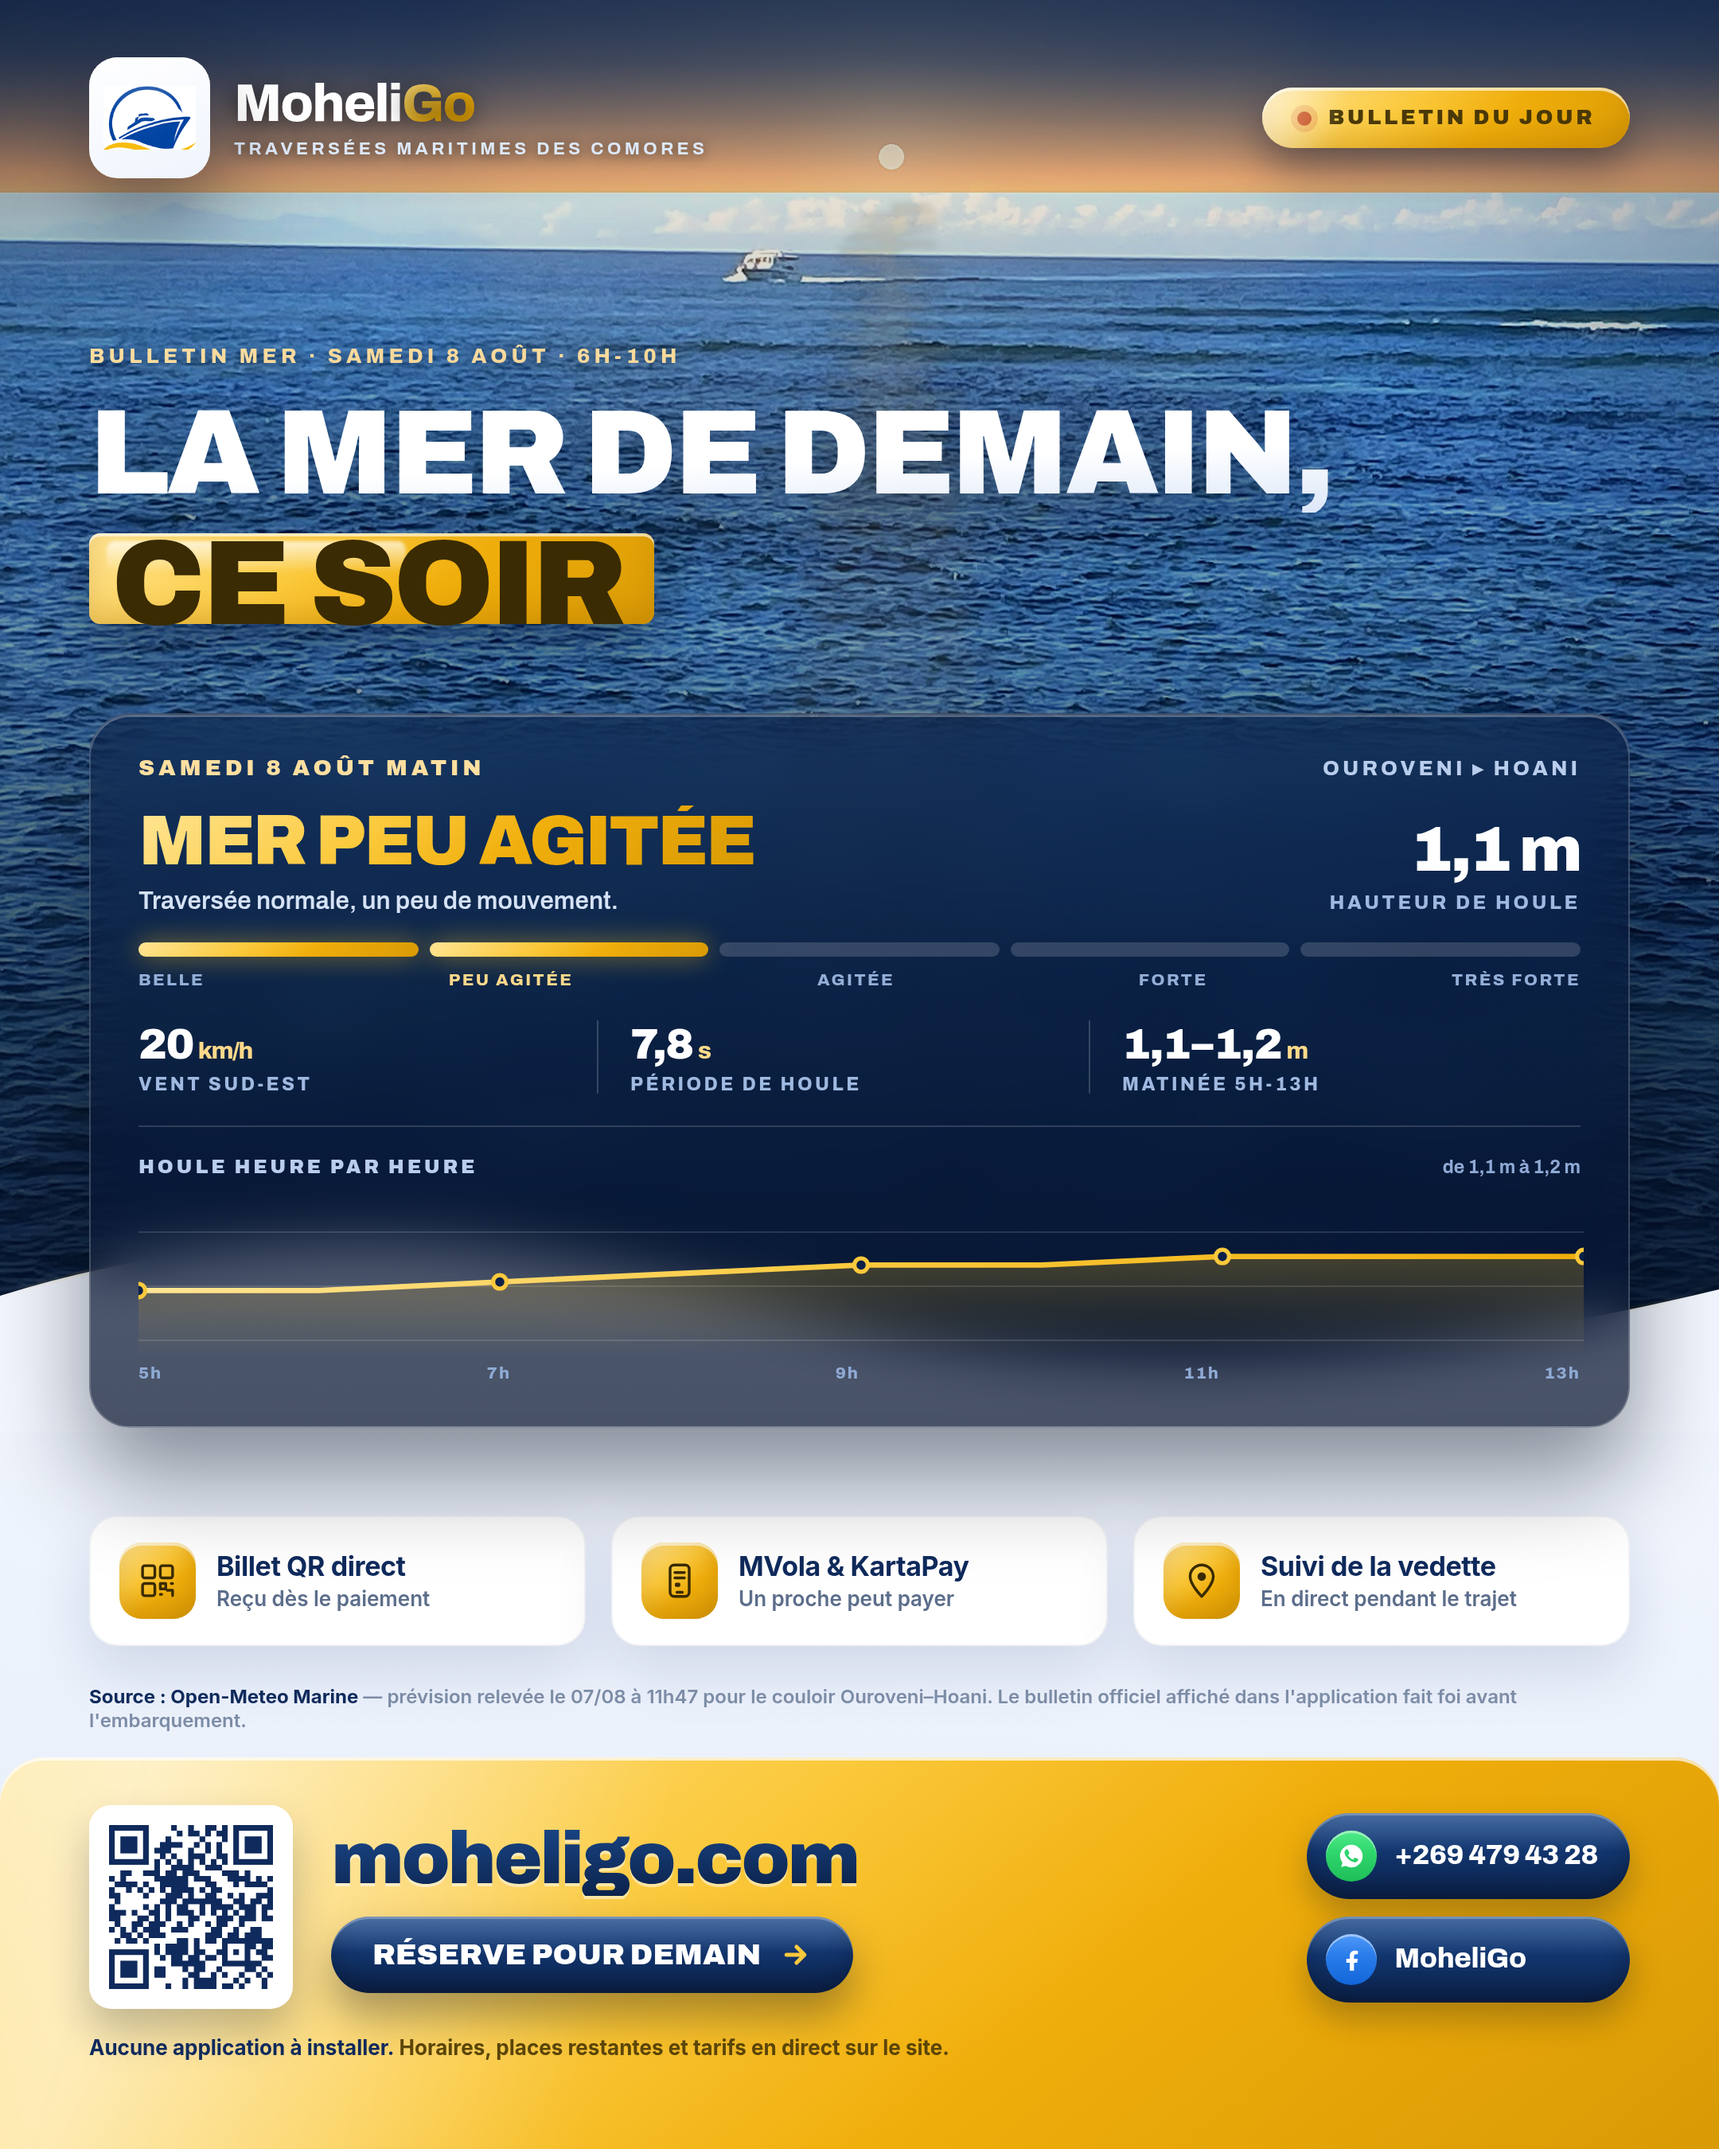
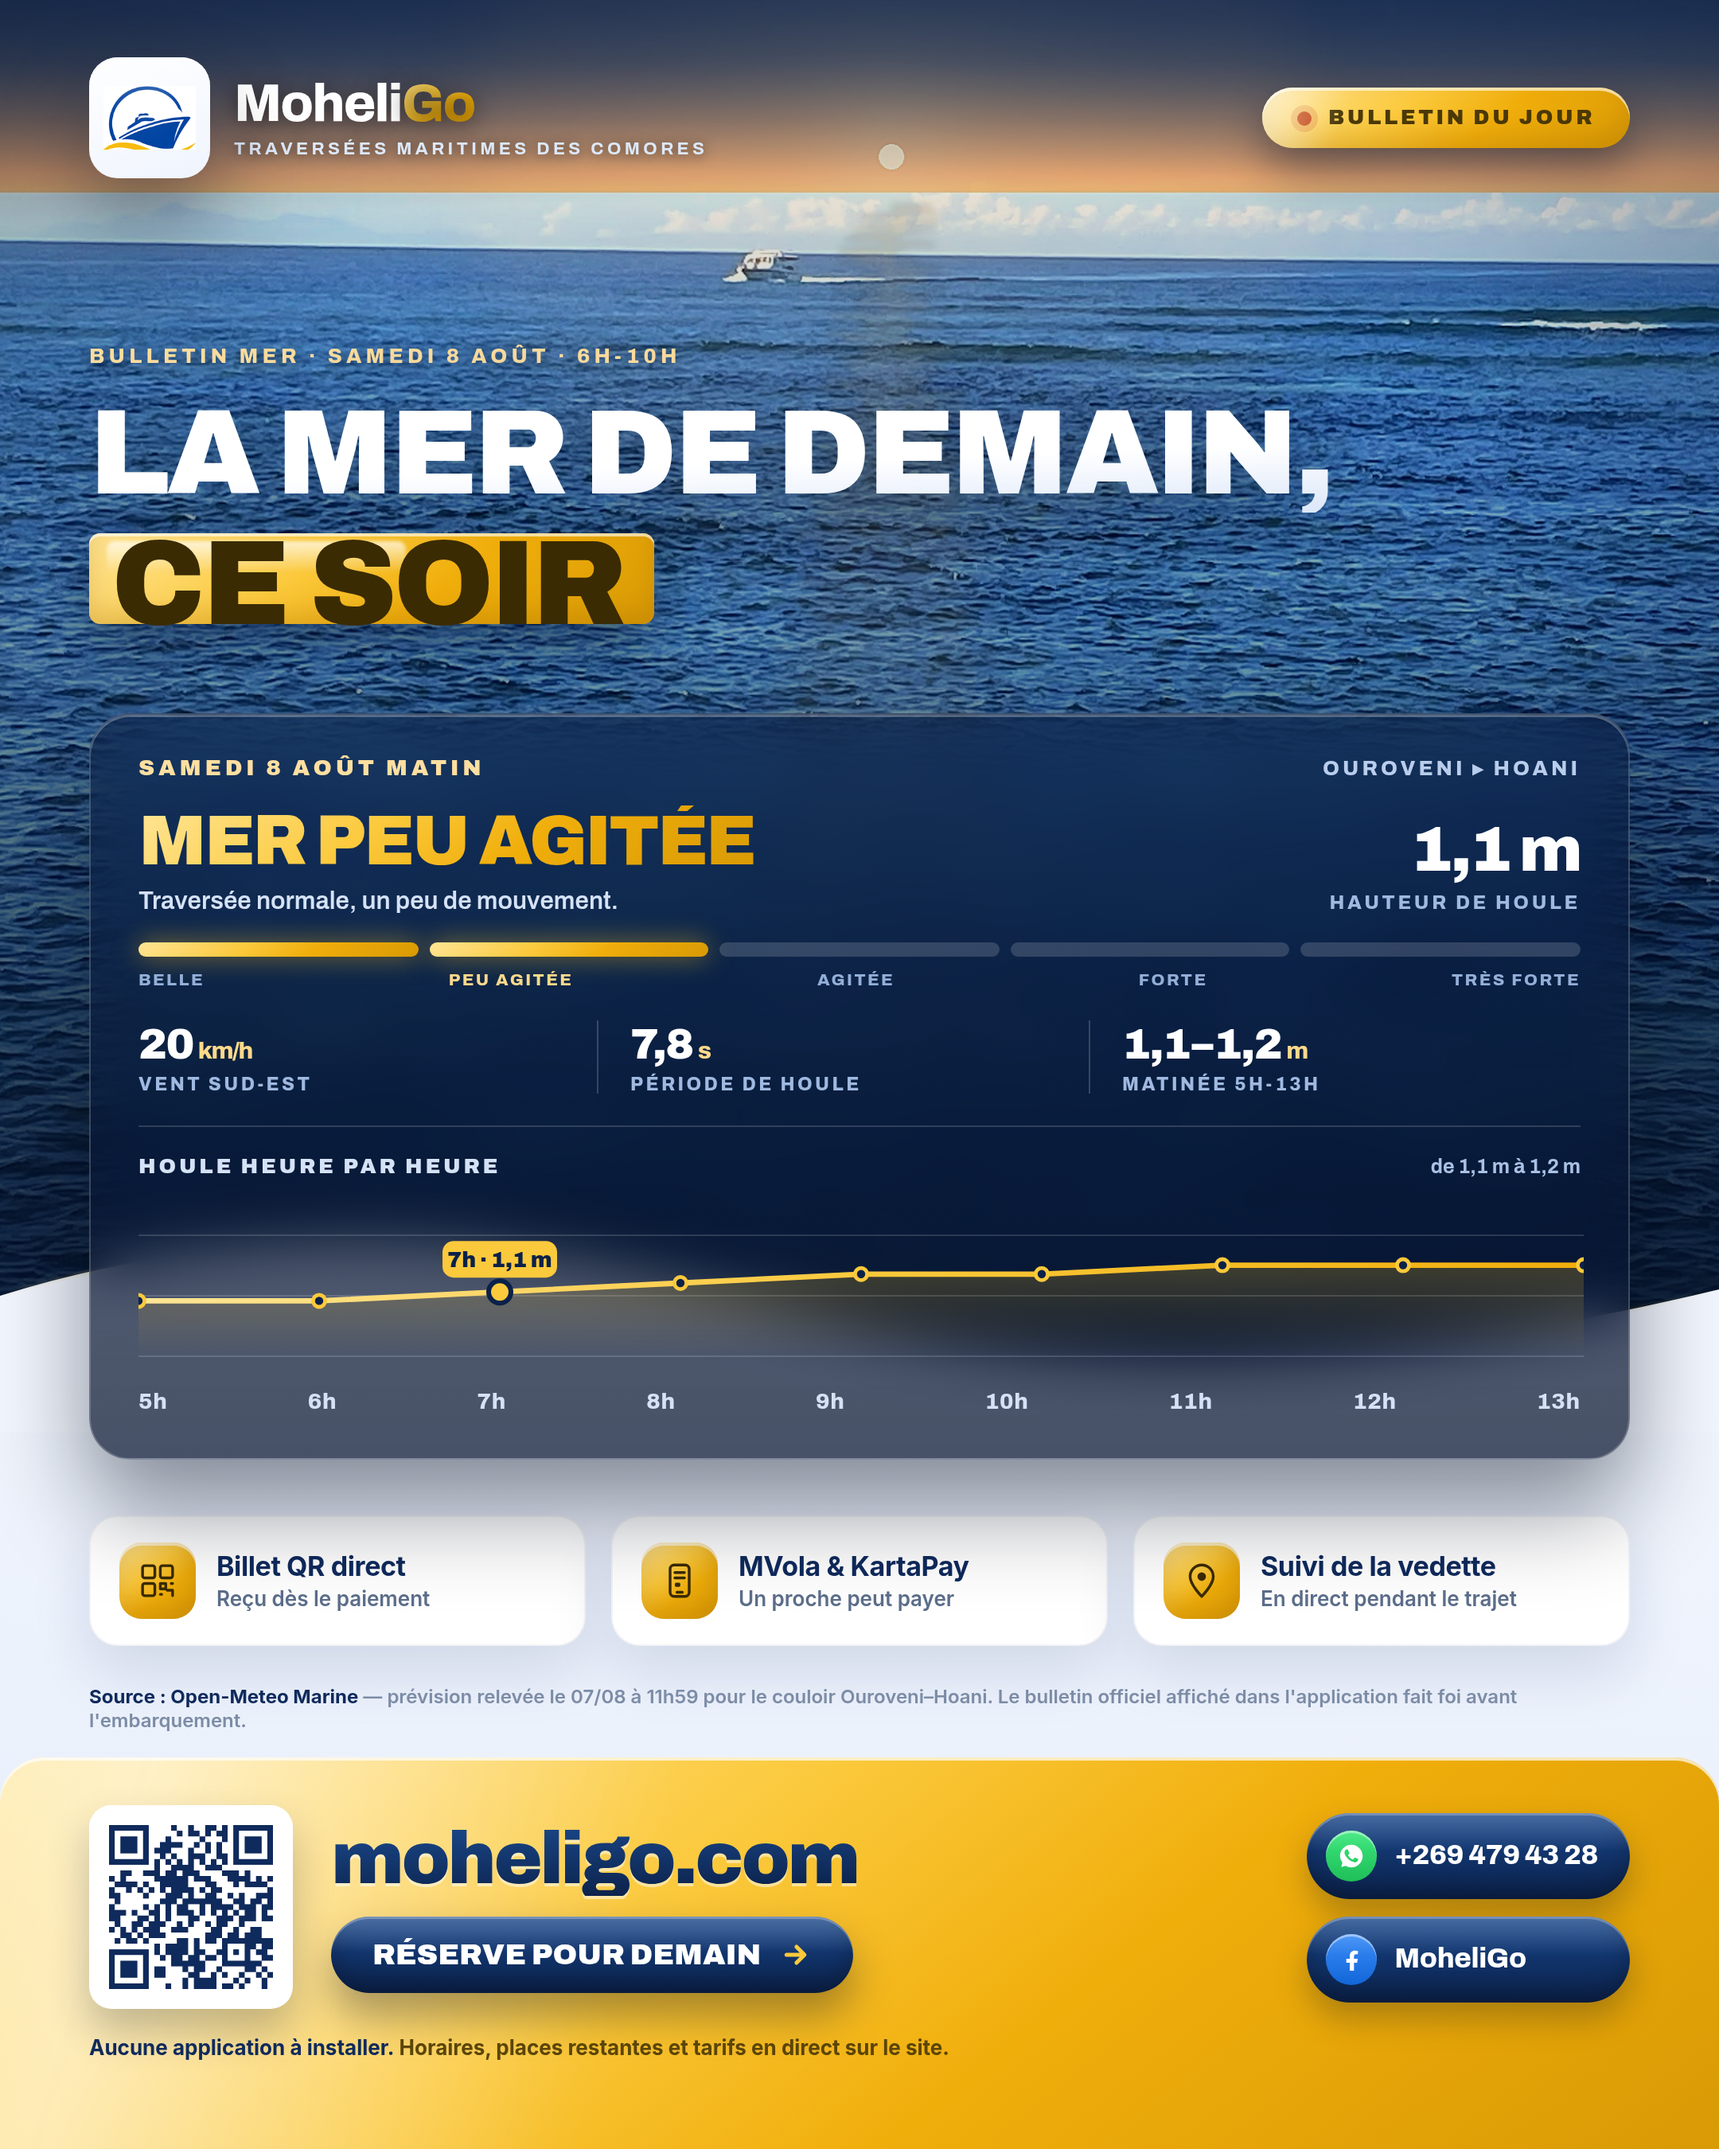
Bulletin du soir : heures lisibles et repere de l'heure de depart
Retour du patron : « on voit pas bien les heures ».

- legende des heures : 14 px au lieu de 10,5, couleur eclaircie, et les neuf
  heures affichees (5h a 13h) au lieu d'une sur deux
- un point par heure sur la courbe, et un repere plus gros a 7h avec sa valeur
  dans une pastille or (« 7h · 1,1 m ») : on lit la houle de l'heure de depart
  la plus courante sans calculer
- boite du graphique agrandie de 104 a 116 px, lignes de reperes plus visibles
- correction : le passage en virgule decimale ne s'applique qu'a la valeur
  affichee, plus au fragment SVG entier (il cassait les coordonnees)
- README : rappel que le PNG publie ne change jamais seul, seule sa fabrication
  est automatisee

Claude-Session: https://claude.ai/code/session_01BYJ87ihntXtVLQBUE1Jkoy

Changed region(s): [[0.031, 0.5289, 0.9616, 0.7156]]

diff --git a/moheligo/pub/flyers/flyer8-soir-fb.html b/moheligo/pub/flyers/flyer8-soir-fb.html
@@ -113,11 +113,11 @@ body { width:1080px; height:1350px; font-family:'Inter',Arial,sans-serif; color:
 /* courbe de houle */
 .chart { margin-top:20px; padding-top:18px; border-top:1px solid rgba(255,255,255,.16); }
 .chart .ct { display:flex; align-items:baseline; justify-content:space-between; }
-.chart .ct b { font-size:12px; font-weight:900; letter-spacing:1.9px; color:#B9CDEC; }
-.chart .ct span { font-size:11.5px; font-weight:700; color:#8FAAD4; }
+.chart .ct b { font-size:13px; font-weight:900; letter-spacing:1.9px; color:#D5E2F6; }
+.chart .ct span { font-size:12.5px; font-weight:700; color:#A9C1E4; }
 .chart svg { display:block; margin-top:8px; }
-.hours { margin-top:5px; display:flex; justify-content:space-between;
-  font-size:10.5px; font-weight:800; letter-spacing:1px; color:#8FAAD4; }
+.hours { margin-top:9px; display:flex; justify-content:space-between;
+  font-size:14px; font-weight:800; letter-spacing:.4px; color:#D5E2F6; }
 
 /* ---------- ligne d'action ---------- */
 .mid { position:absolute; left:var(--pad); right:var(--pad); top:952px; z-index:4; display:flex; gap:16px; }
@@ -220,7 +220,7 @@ body { width:1080px; height:1350px; font-family:'Inter',Arial,sans-serif; color:
 
     <div class="chart">
       <div class="ct arch"><b>HOULE HEURE PAR HEURE</b><span>de 1,1 m à 1,2 m</span></div>
-      <svg width="908" height="104" viewBox="0 0 908 104" fill="none">
+      <svg width="908" height="116" viewBox="0 0 908 116" fill="none">
         <defs>
           <linearGradient id="aire" x1="0" y1="0" x2="0" y2="104" gradientUnits="userSpaceOnUse">
             <stop offset="0" stop-color="#F6BC1C" stop-opacity=".42"/>
@@ -231,13 +231,13 @@ body { width:1080px; height:1350px; font-family:'Inter',Arial,sans-serif; color:
             <stop offset="1" stop-color="#F0AE0B"/>
           </linearGradient>
         </defs>
-        <path d="M0 26 H908 M0 60 H908 M0 94 H908" stroke="#FFFFFF" stroke-opacity=".13" stroke-width="1"/>
-        <path d="M0.0 62.7 L113.5 62.7 L227.0 57.3 L340.5 52.0 L454.0 46.7 L567.5 46.7 L681.0 41.3 L794.5 41.3 L908.0 41.3 L908.0 104 L0.0 104 Z" fill="url(#aire)"/>
-        <path d="M0.0 62.7 L113.5 62.7 L227.0 57.3 L340.5 52.0 L454.0 46.7 L567.5 46.7 L681.0 41.3 L794.5 41.3 L908.0 41.3" fill="none" stroke="url(#trait)" stroke-width="3.4"
+        <path d="M0 28 H908 M0 66 H908 M0 104 H908" stroke="#FFFFFF" stroke-opacity=".15" stroke-width="1"/>
+        <path d="M0.0 69.2 L113.5 69.2 L227.0 63.6 L340.5 58.0 L454.0 52.4 L567.5 52.4 L681.0 46.8 L794.5 46.8 L908.0 46.8 L908.0 116 L0.0 116 Z" fill="url(#aire)"/>
+        <path d="M0.0 69.2 L113.5 69.2 L227.0 63.6 L340.5 58.0 L454.0 52.4 L567.5 52.4 L681.0 46.8 L794.5 46.8 L908.0 46.8" fill="none" stroke="url(#trait)" stroke-width="3.4"
               stroke-linecap="round" stroke-linejoin="round"/>
-        <circle cx="0.0" cy="62.7" r="4.2" fill="#0B2149" stroke="#FBC93C" stroke-width="2.6"/><circle cx="227.0" cy="57.3" r="4.2" fill="#0B2149" stroke="#FBC93C" stroke-width="2.6"/><circle cx="454.0" cy="46.7" r="4.2" fill="#0B2149" stroke="#FBC93C" stroke-width="2.6"/><circle cx="681.0" cy="41.3" r="4.2" fill="#0B2149" stroke="#FBC93C" stroke-width="2.6"/><circle cx="908.0" cy="41.3" r="4.2" fill="#0B2149" stroke="#FBC93C" stroke-width="2.6"/>
+        <circle cx="0.0" cy="69.2" r="3.8" fill="#0B2149" stroke="#FBC93C" stroke-width="2.4"/><circle cx="113.5" cy="69.2" r="3.8" fill="#0B2149" stroke="#FBC93C" stroke-width="2.4"/><circle cx="227.0" cy="63.6" r="3.8" fill="#0B2149" stroke="#FBC93C" stroke-width="2.4"/><circle cx="340.5" cy="58.0" r="3.8" fill="#0B2149" stroke="#FBC93C" stroke-width="2.4"/><circle cx="454.0" cy="52.4" r="3.8" fill="#0B2149" stroke="#FBC93C" stroke-width="2.4"/><circle cx="567.5" cy="52.4" r="3.8" fill="#0B2149" stroke="#FBC93C" stroke-width="2.4"/><circle cx="681.0" cy="46.8" r="3.8" fill="#0B2149" stroke="#FBC93C" stroke-width="2.4"/><circle cx="794.5" cy="46.8" r="3.8" fill="#0B2149" stroke="#FBC93C" stroke-width="2.4"/><circle cx="908.0" cy="46.8" r="3.8" fill="#0B2149" stroke="#FBC93C" stroke-width="2.4"/><circle cx="227.0" cy="63.6" r="7" fill="#FBC93C" stroke="#0B2149" stroke-width="3"/><rect x="191.0" y="31.6" width="72" height="23" rx="7" fill="#FBC93C"/><text x="227.0" y="48.1" text-anchor="middle" font-family="Archivo,Inter,sans-serif" font-size="13.5" font-weight="900" fill="#0B2149">7h · 1,1 m</text>
       </svg>
-      <div class="hours arch"><span>5h</span><span>7h</span><span>9h</span><span>11h</span><span>13h</span></div>
+      <div class="hours arch"><span>5h</span><span>6h</span><span>7h</span><span>8h</span><span>9h</span><span>10h</span><span>11h</span><span>12h</span><span>13h</span></div>
     </div>
   </div>
 
@@ -262,7 +262,7 @@ body { width:1080px; height:1350px; font-family:'Inter',Arial,sans-serif; color:
     </div>
   </div>
 
-  <div class="source"><b>Source : Open-Meteo Marine</b> — prévision relevée le 07/08 à 11h47 pour le couloir Ouroveni–Hoani.
+  <div class="source"><b>Source : Open-Meteo Marine</b> — prévision relevée le 07/08 à 11h59 pour le couloir Ouroveni–Hoani.
     Le bulletin officiel affiché dans l'application fait foi avant l'embarquement.</div>
 
   <div class="cta">

diff --git a/moheligo/pub/flyers/flyer8-soir-fb.template.html b/moheligo/pub/flyers/flyer8-soir-fb.template.html
@@ -113,11 +113,11 @@ body { width:1080px; height:1350px; font-family:'Inter',Arial,sans-serif; color:
 /* courbe de houle */
 .chart { margin-top:20px; padding-top:18px; border-top:1px solid rgba(255,255,255,.16); }
 .chart .ct { display:flex; align-items:baseline; justify-content:space-between; }
-.chart .ct b { font-size:12px; font-weight:900; letter-spacing:1.9px; color:#B9CDEC; }
-.chart .ct span { font-size:11.5px; font-weight:700; color:#8FAAD4; }
+.chart .ct b { font-size:13px; font-weight:900; letter-spacing:1.9px; color:#D5E2F6; }
+.chart .ct span { font-size:12.5px; font-weight:700; color:#A9C1E4; }
 .chart svg { display:block; margin-top:8px; }
-.hours { margin-top:5px; display:flex; justify-content:space-between;
-  font-size:10.5px; font-weight:800; letter-spacing:1px; color:#8FAAD4; }
+.hours { margin-top:9px; display:flex; justify-content:space-between;
+  font-size:14px; font-weight:800; letter-spacing:.4px; color:#D5E2F6; }
 
 /* ---------- ligne d'action ---------- */
 .mid { position:absolute; left:var(--pad); right:var(--pad); top:952px; z-index:4; display:flex; gap:16px; }
@@ -220,7 +220,7 @@ body { width:1080px; height:1350px; font-family:'Inter',Arial,sans-serif; color:
 
     <div class="chart">
       <div class="ct arch"><b>HOULE HEURE PAR HEURE</b><span>{{PLAGE}}</span></div>
-      <svg width="908" height="104" viewBox="0 0 908 104" fill="none">
+      <svg width="908" height="116" viewBox="0 0 908 116" fill="none">
         <defs>
           <linearGradient id="aire" x1="0" y1="0" x2="0" y2="104" gradientUnits="userSpaceOnUse">
             <stop offset="0" stop-color="#F6BC1C" stop-opacity=".42"/>
@@ -231,7 +231,7 @@ body { width:1080px; height:1350px; font-family:'Inter',Arial,sans-serif; color:
             <stop offset="1" stop-color="#F0AE0B"/>
           </linearGradient>
         </defs>
-        <path d="M0 26 H908 M0 60 H908 M0 94 H908" stroke="#FFFFFF" stroke-opacity=".13" stroke-width="1"/>
+        <path d="M0 28 H908 M0 66 H908 M0 104 H908" stroke="#FFFFFF" stroke-opacity=".15" stroke-width="1"/>
         <path d="{{AIRE}}" fill="url(#aire)"/>
         <path d="{{COURBE}}" fill="none" stroke="url(#trait)" stroke-width="3.4"
               stroke-linecap="round" stroke-linejoin="round"/>

diff --git a/moheligo/pub/flyers/bulletin.py b/moheligo/pub/flyers/bulletin.py
@@ -108,7 +108,7 @@ def main():
     niveau = next(i for i, (seuil, _, _) in enumerate(DOUGLAS) if houle < seuil)
 
     # --- courbe de houle : chemins SVG dans une boîte 908 x 104
-    Wc, Hc, pad = 908, 104, 12
+    Wc, Hc, pad = 908, 116, 16
     lo, hi = min(courbe), max(courbe)
     if hi - lo < 0.25:                      # évite une courbe écrasée ou plate
         mid = (hi + lo) / 2
@@ -121,9 +121,20 @@ def main():
     courbe_d = 'M' + ' L'.join(f'{x} {y}' for x, y in pts)
     aire_d = f'{courbe_d} L{pts[-1][0]} {Hc} L{pts[0][0]} {Hc} Z'
     points = ''.join(
-        f'<circle cx="{x}" cy="{y}" r="4.2" fill="#0B2149" stroke="#FBC93C" stroke-width="2.6"/>'
-        for i, (x, y) in enumerate(pts) if i % 2 == 0)
-    heures = ''.join(f'<span>{h}h</span>' for h in range(5, 14) if (h - 5) % 2 == 0)
+        f'<circle cx="{x}" cy="{y}" r="3.8" fill="#0B2149" stroke="#FBC93C" stroke-width="2.4"/>'
+        for x, y in pts)
+    # l'heure de départ la plus courante est repérée avec sa valeur
+    ix = 2                                     # 5h + 2 = 7h
+    px, py = pts[ix]
+    val = f'{courbe[ix]:.1f}'.replace('.', ',')     # la virgule UNIQUEMENT ici :
+    ty = py - 32 if py > 46 else py + 12            # jamais sur les coordonnées
+    points += (
+        f'<circle cx="{px}" cy="{py}" r="7" fill="#FBC93C" stroke="#0B2149" stroke-width="3"/>'
+        f'<rect x="{px - 36}" y="{ty}" width="72" height="23" rx="7" fill="#FBC93C"/>'
+        f'<text x="{px}" y="{ty + 16.5}" text-anchor="middle" '
+        f'font-family="Archivo,Inter,sans-serif" font-size="13.5" font-weight="900" '
+        f'fill="#0B2149">7h · {val} m</text>')
+    heures = ''.join(f'<span>{h}h</span>' for h in range(5, 14))
 
     gauge = ''.join(f'<div class="{"on" if i <= niveau else ""}"></div>' for i in range(5))
     gauge_lab = ''.join(f'<span class="{"on" if i == niveau else ""}">{l}</span>'

diff --git a/moheligo/pub/flyers/README.md b/moheligo/pub/flyers/README.md
@@ -139,6 +139,13 @@ Le dernier argument est le facteur d'échelle : 1240 × 1754 CSS × 2 = A4 à
 - Une photo **étalonnée fin de journée** (`soir.py`), pas un filtre orange.
 - ⚠ Deux garde-fous non négociables : la **mention de source** et le rappel que
   **le bulletin officiel fait foi**. On publie une prévision, pas une promesse.
+- ⚠ **Le PNG publié ne change jamais tout seul** — c'est une image. Ce qui est
+  automatique, c'est sa *fabrication* : `bulletin.py` va chercher les données du
+  jour et refait le fichier. Il faut donc le relancer et republier chaque jour.
+- ⚠ Piège de code : dans `bulletin.py`, la virgule décimale française ne
+  s'applique **qu'aux valeurs affichées**, jamais au fragment SVG entier — un
+  `.replace('.', ',')` sur tout le fragment casse les coordonnées (`x="194,0"`)
+  et l'étiquette part dans le coin.
 
 ## La recette « ça brille » (demande du patron : niveau designer pro)
 
